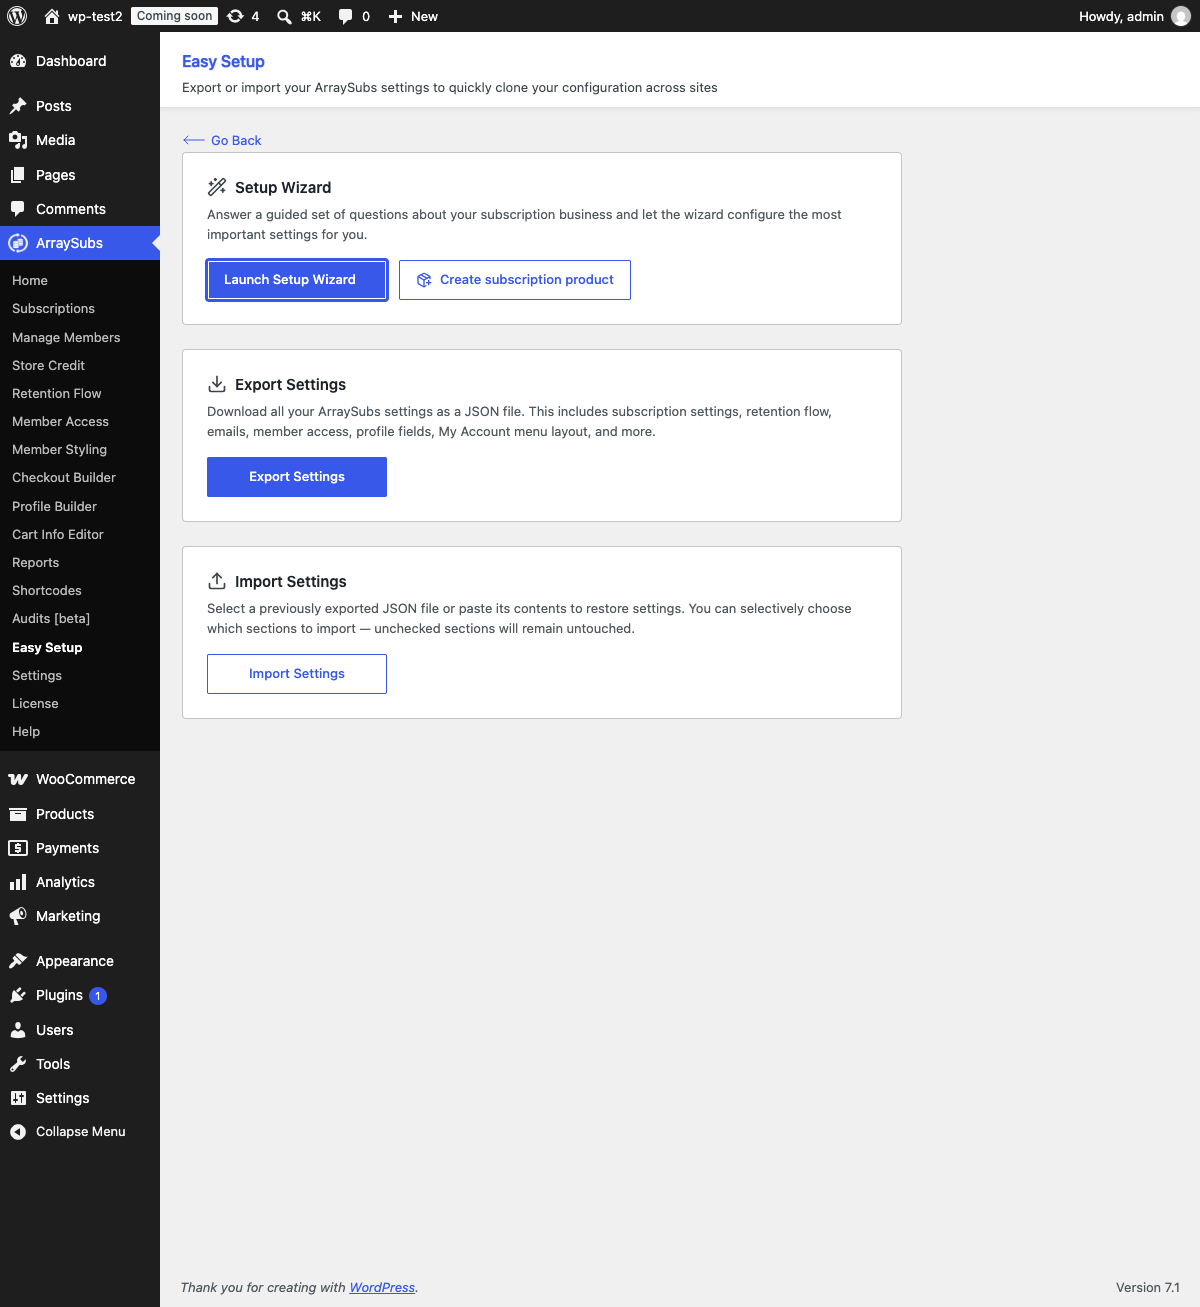
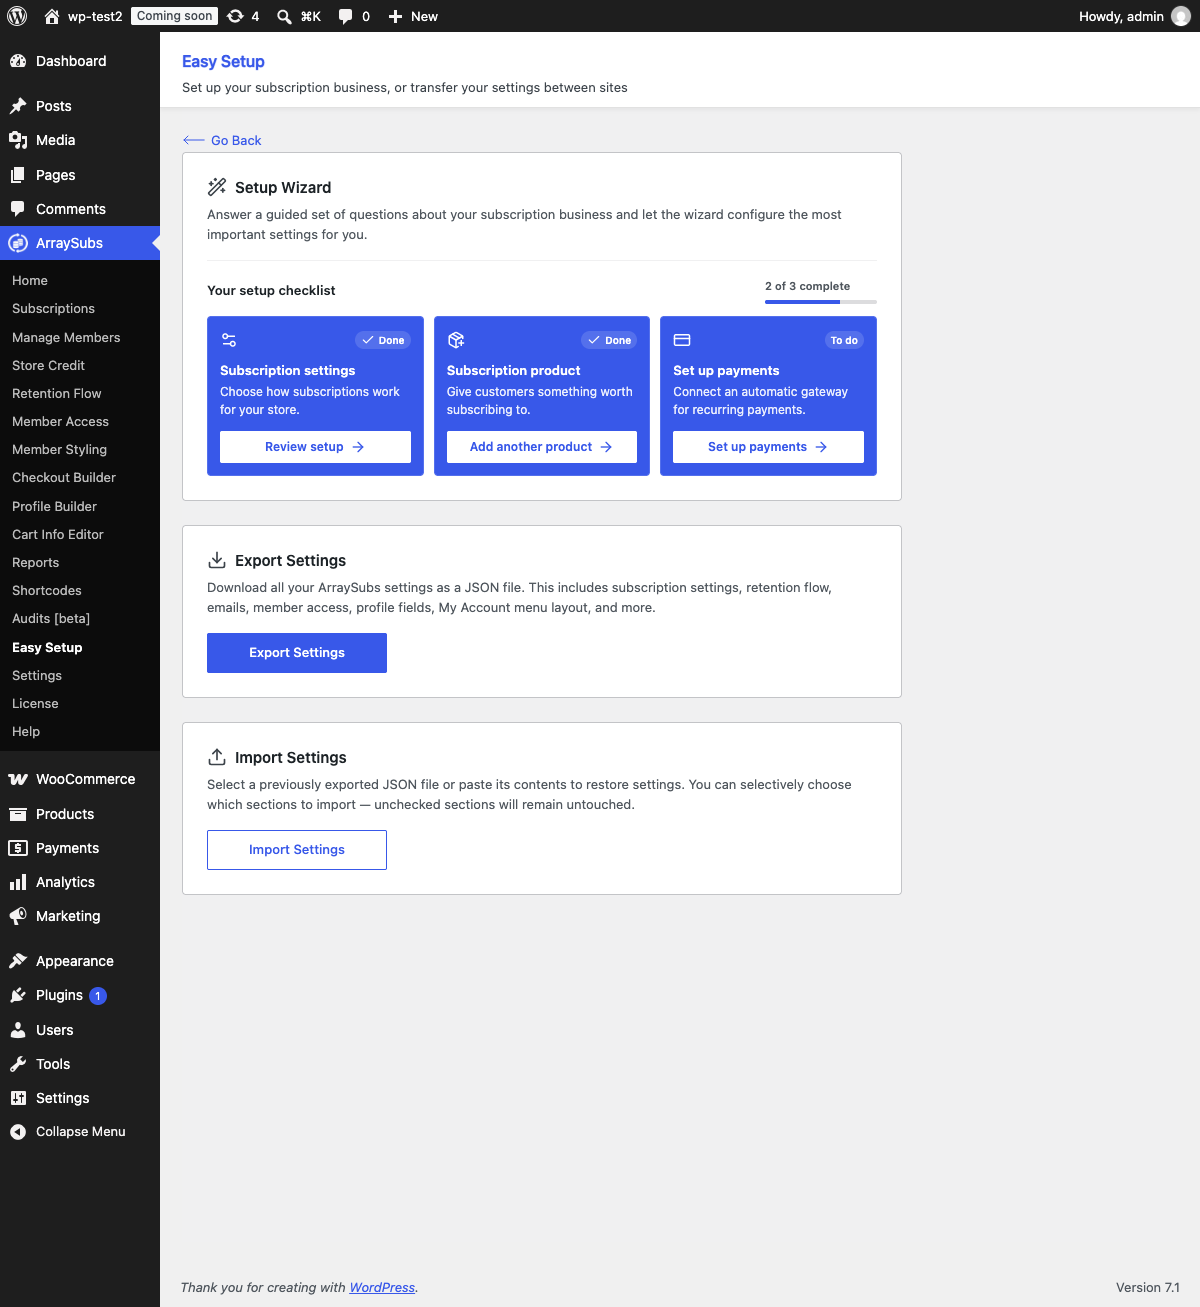
//

diff --git a/kanban/tasks/048-getting-started-easy-setup-wizard-md.md b/kanban/tasks/048-getting-started-easy-setup-wizard-md.md
@@ -1,12 +1,11 @@
 ---
 id: 48
 title: getting-started - easy-setup-wizard.md
-status: done
+status: review
 priority: medium
 created: 2026-06-09T18:08:34.832299+06:00
-updated: 2026-09-14T17:59:54.600579+06:00
+updated: 2026-09-14T18:55:37.593589+06:00
 started: 2026-06-22T01:23:40.780171+06:00
-completed: 2026-09-14T17:59:54.600579+06:00
 class: standard
 ---
 
@@ -453,3 +452,17 @@ Markers:
 - `npm run build` passed: 123 documentation pages.
 - Real-browser manual preview loaded all 26 images successfully with no horizontal overflow. Launching the Wizard and Congratulations and Next Steps rendered correctly.
 - Save behavior was verified from the current loader and REST implementation. This documentation refresh did not submit a settings POST; the Apply dialog was cancelled and the draft discarded.
+
+[[2026-09-14]] Mon 18:54
+Main-page screenshot refresh — 2026-09-14. User scope: replace only the Easy Setup main-page screenshot; preserve every inner wizard image and the manual text.
+
+1. `01-easy-setup-page`
+Placement: after `### Launching the Wizard`.
+Surface: Easy Setup main admin page, with the compact Subscription settings, Subscription product, and Set up payments cards, plus Export Settings and Import Settings.
+Context: Current WordPress primary-color cards, white controls, and live 2 of 3 complete progress. Authenticated admin on http://localhost:10013/wp-admin/admin.php?page=arraysubs-mainadmin#/easy-setup, core and Pro active. Browser session setup-manual-main-admin.
+Capture scope: Unmarked full-page original, 1200 × 1200 viewport; saved image 1200 × 1307. Existing filename replaced directly.
+Markers: None; clean screenshot requested.
+Verification: Saved source and built copy inspected separately; source and built image bytes match. All other 34 screenshot assets retain their prior checksums. Manual build passed with 123 pages, and the existing guide reference resolves to this image. No inner wizard screens were opened or changed, and no settings were saved.
+Text mismatch flagged for later review only: the launch instructions still say Launch Setup Wizard and refer to a separate Create subscription product button; the main page now shows Start setup / Review setup and Create a product / Add another product within the compact checklist. Manual text left unchanged under the screenshot-only request.
+
+Checksum count correction: the asset folder has 34 PNGs in total; the other 33 images are byte-for-byte unchanged.
